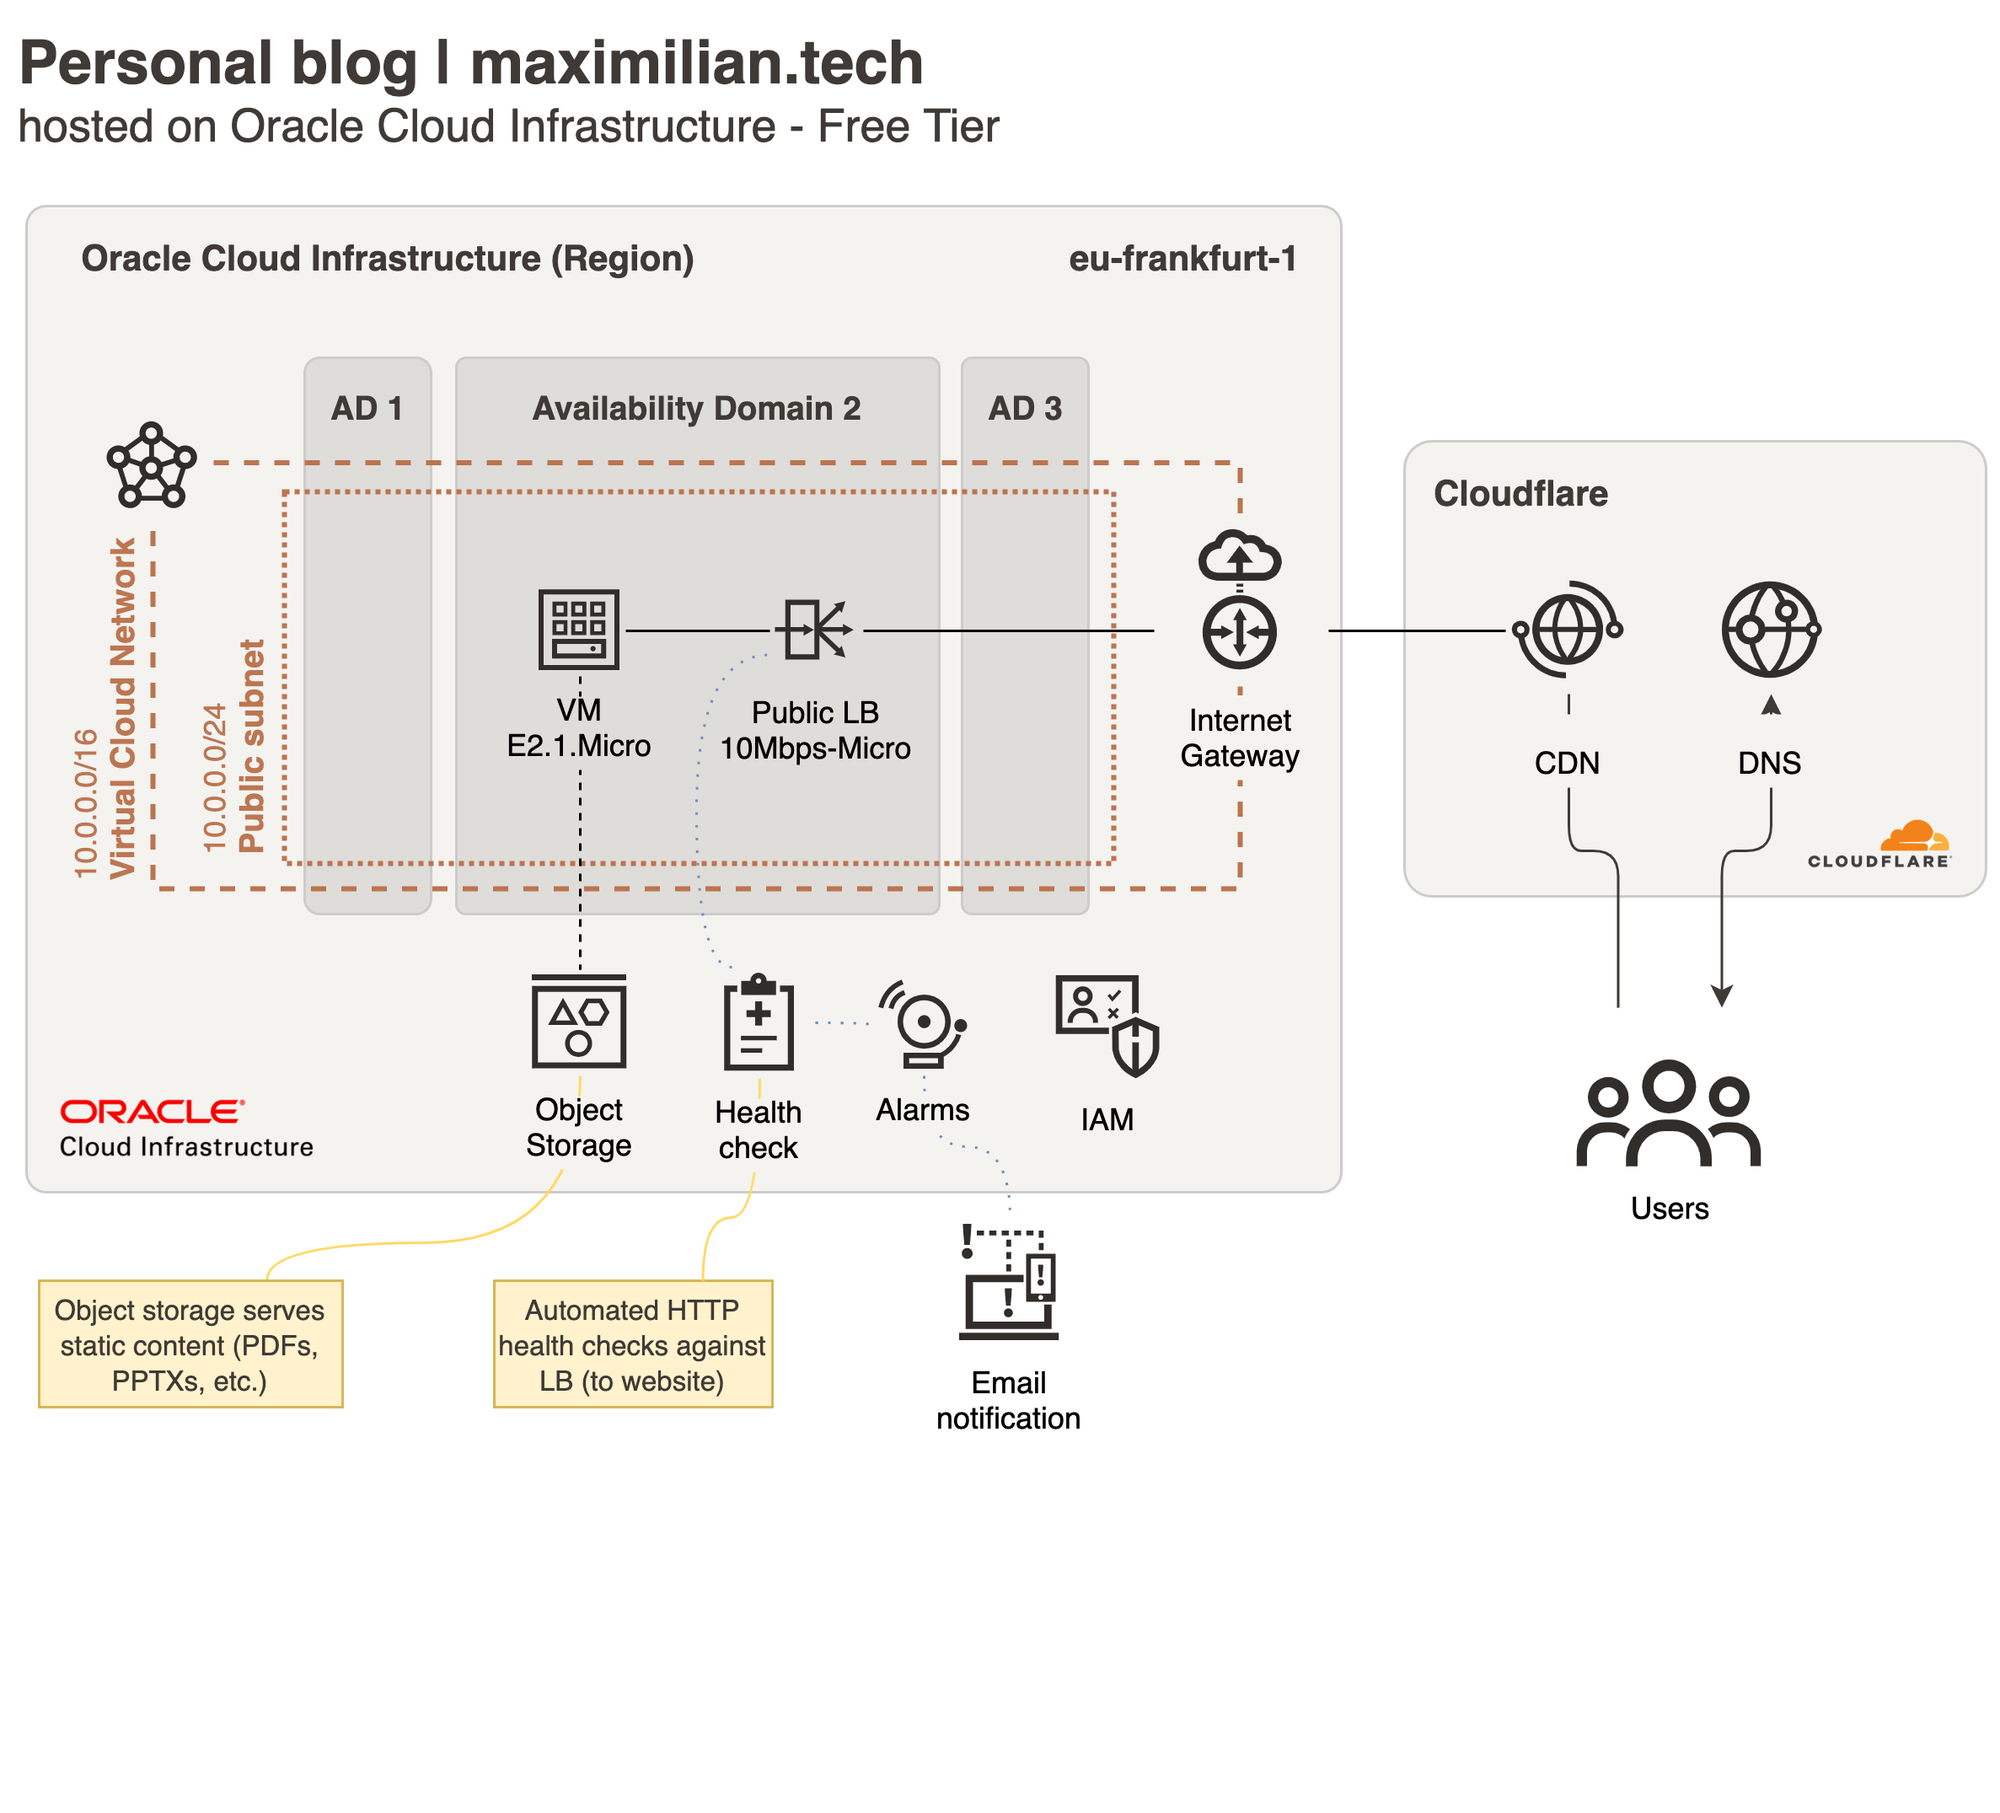
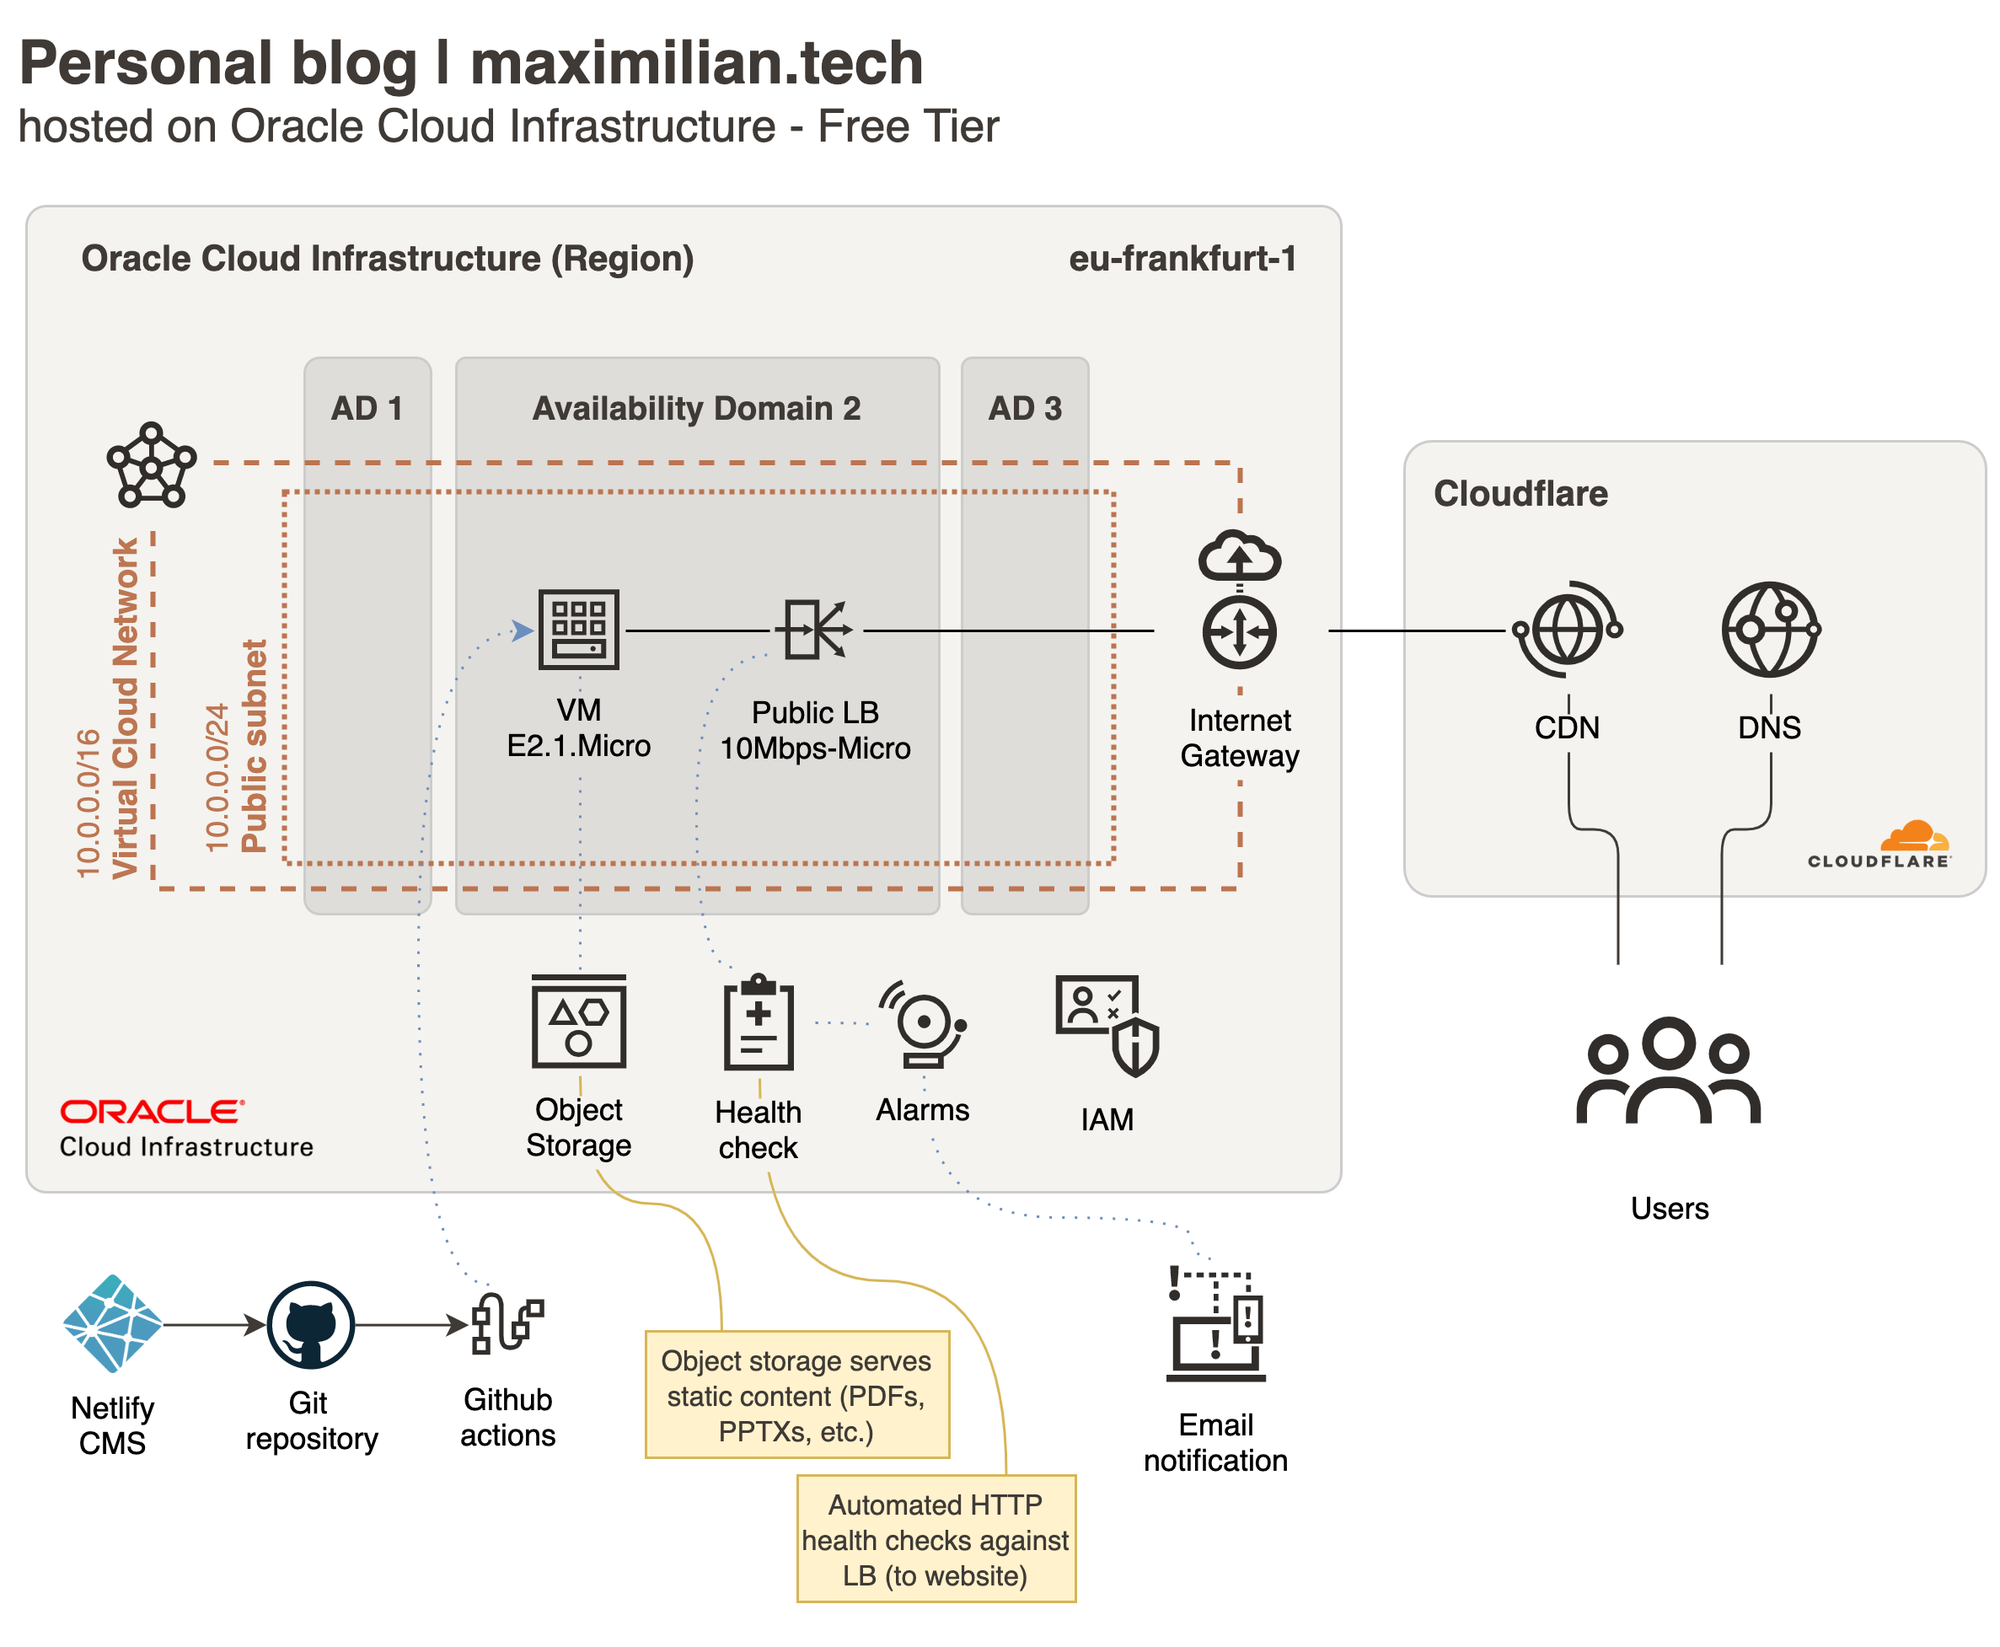
edited about section

diff --git a/_pages/about.md b/_pages/about.md
@@ -9,6 +9,8 @@ Hi 👋 I'm Max. You have stumbled across my blog where I write about cloud comp
 
 ## About this blog
 
-This blog is hosted on Oracle Cloud free tier (in combination with Cloudflare DNS and CDN). See an overview of the architecture below.
+This blog is hosted completely for free on [Oracle Cloud free tier](https://www.oracle.com/cloud/free/) (in combination with [Cloudflare](https://www.cloudflare.com/) DNS and CDN). See an overview of the architecture below. 
 
 ![](/images/pages/personal-blog-architecture.png)
+
+The blog is based on the static-site generator Jekyll. [Netlify CMS](https://www.netlifycms.org/) is used to manage the blog content. Netlify CMS commits all changes to a Git repository hosted by Github. There are Github action pipelines in place, which build the page using Jekyll and use `scp` to copy the static files to the webserver.
